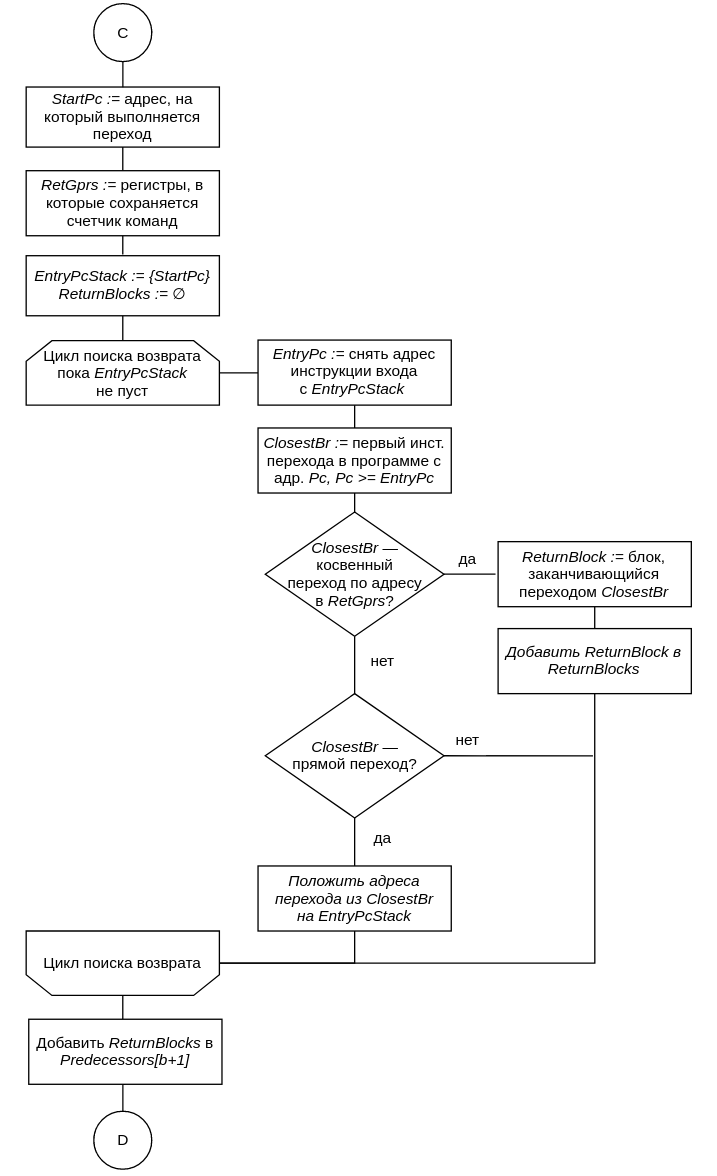
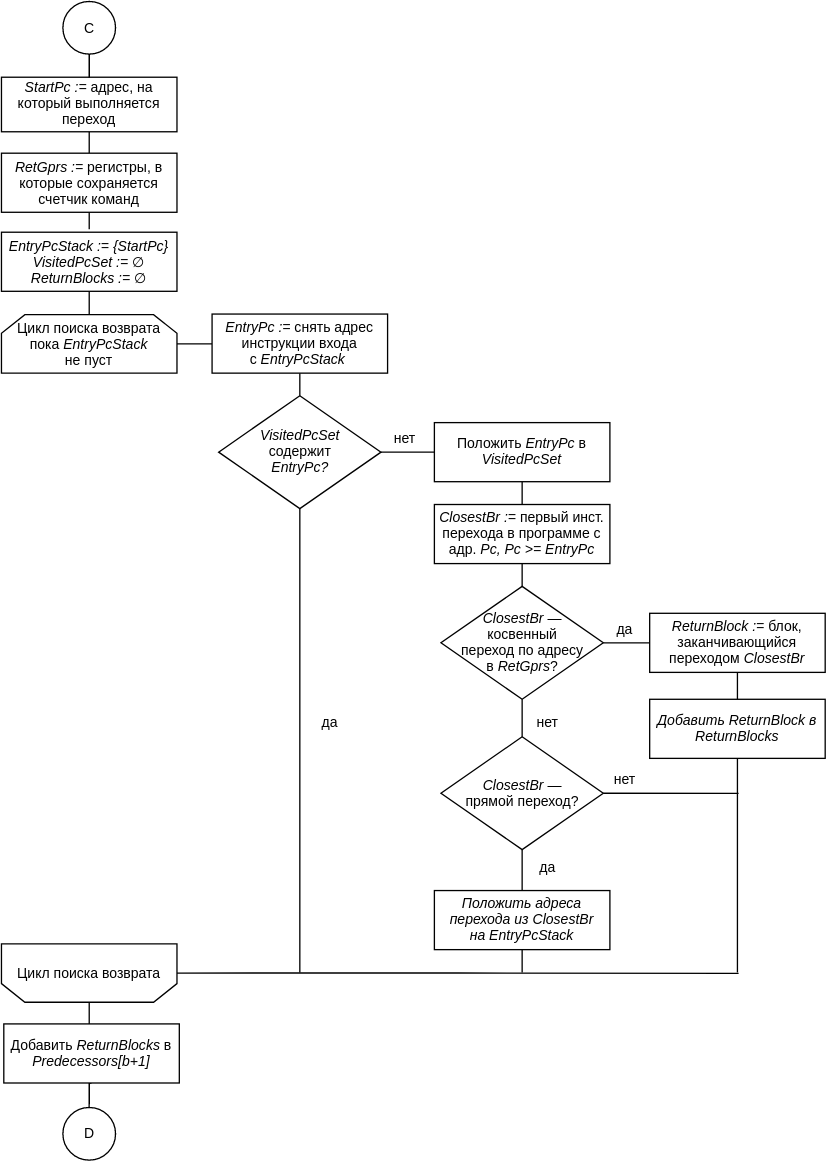
analysis: fix infinite loop in cfg predecessor search

diff --git a/thesis.tex b/thesis.tex
@@ -619,7 +619,7 @@ $\left[\var{Leaders}[i], \var{Leaders}[i+1]\right)$.\\
 
 \begin{figure}[H]
 \centering
-\includegraphics[width=0.8\textwidth]{diagrams/alg-cfg-call}
+\includegraphics[width=\textwidth]{diagrams/alg-cfg-call}
 \caption{Блок-схема опеределения предшественников при вызове функции}
 \label{fig:diagram-cfg-call}
 \end{figure}
@@ -1054,7 +1054,7 @@ spec = describe "dependency resolution using s_waitcnt" $ do
 \thead{Название модуля \\ (предназначение)} & \thead{Кол-во тестовых \\ сценариев} & \thead{Степень \\ покрытия кода} \\\hline
 \makecell[l]{\texttt{Disassembler.ElfReader}\\[2mm] (Чтение исполняемых файлов ELF)} & 2 & 100\% \\\hline
 \makecell[l]{\texttt{Disassembler.InstructionParser}\\[2mm] (Трансляция операндов инструкций\\из строк в составной тип)} & 6 & 95\% \\\hline
-\makecell[l]{\texttt{ControlFlow}\\[2mm] (Восстановление управляющего графа)} & 2 & 95\% \\\hline
+\makecell[l]{\texttt{ControlFlow}\\[2mm] (Восстановление управляющего графа)} & 3 & 96\% \\\hline
   \makecell[l]{\texttt{Analysis.Waitcnt}\\[2mm] (Проверка инструкций ожидания\\запросов к памяти)} & 5 & 92\% \\\hline
 \makecell[l]{\texttt{Analysis.WaitStateHazard}\\[2mm] (Проверка слотов задержки\\между зависимыми инструкциями)} & 4 & 94\% \\\hline
 \end{tabular}
